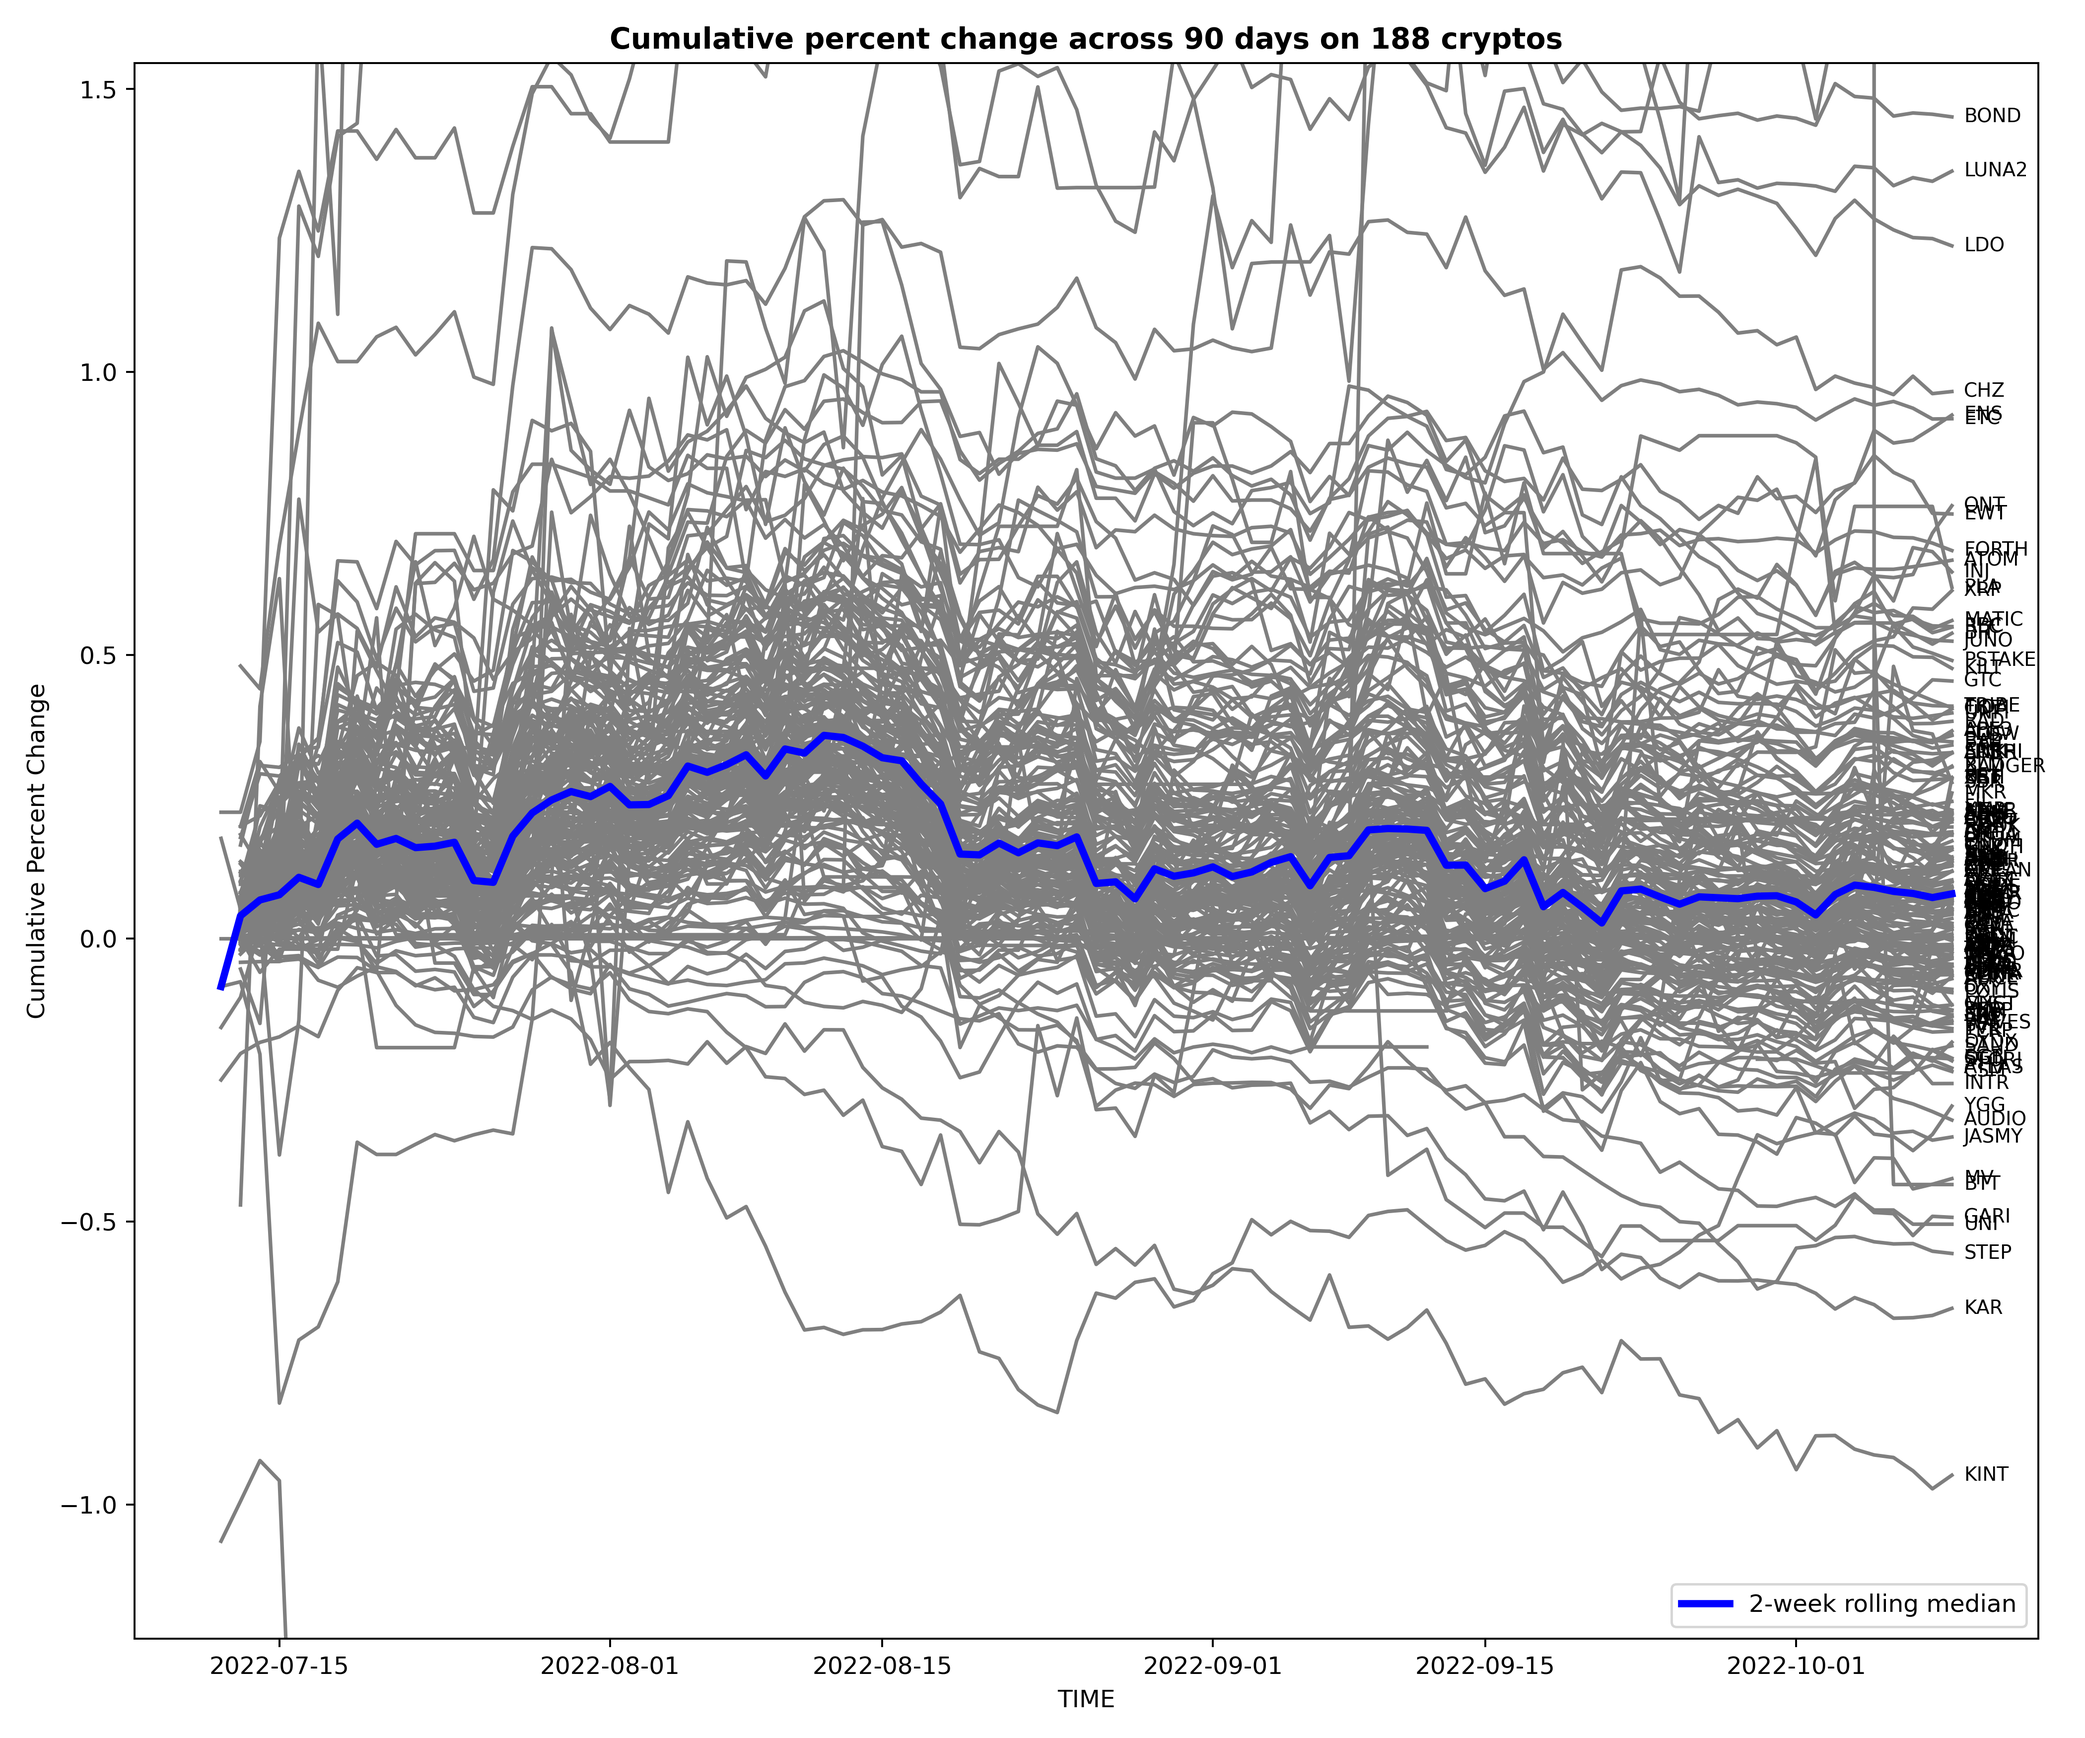
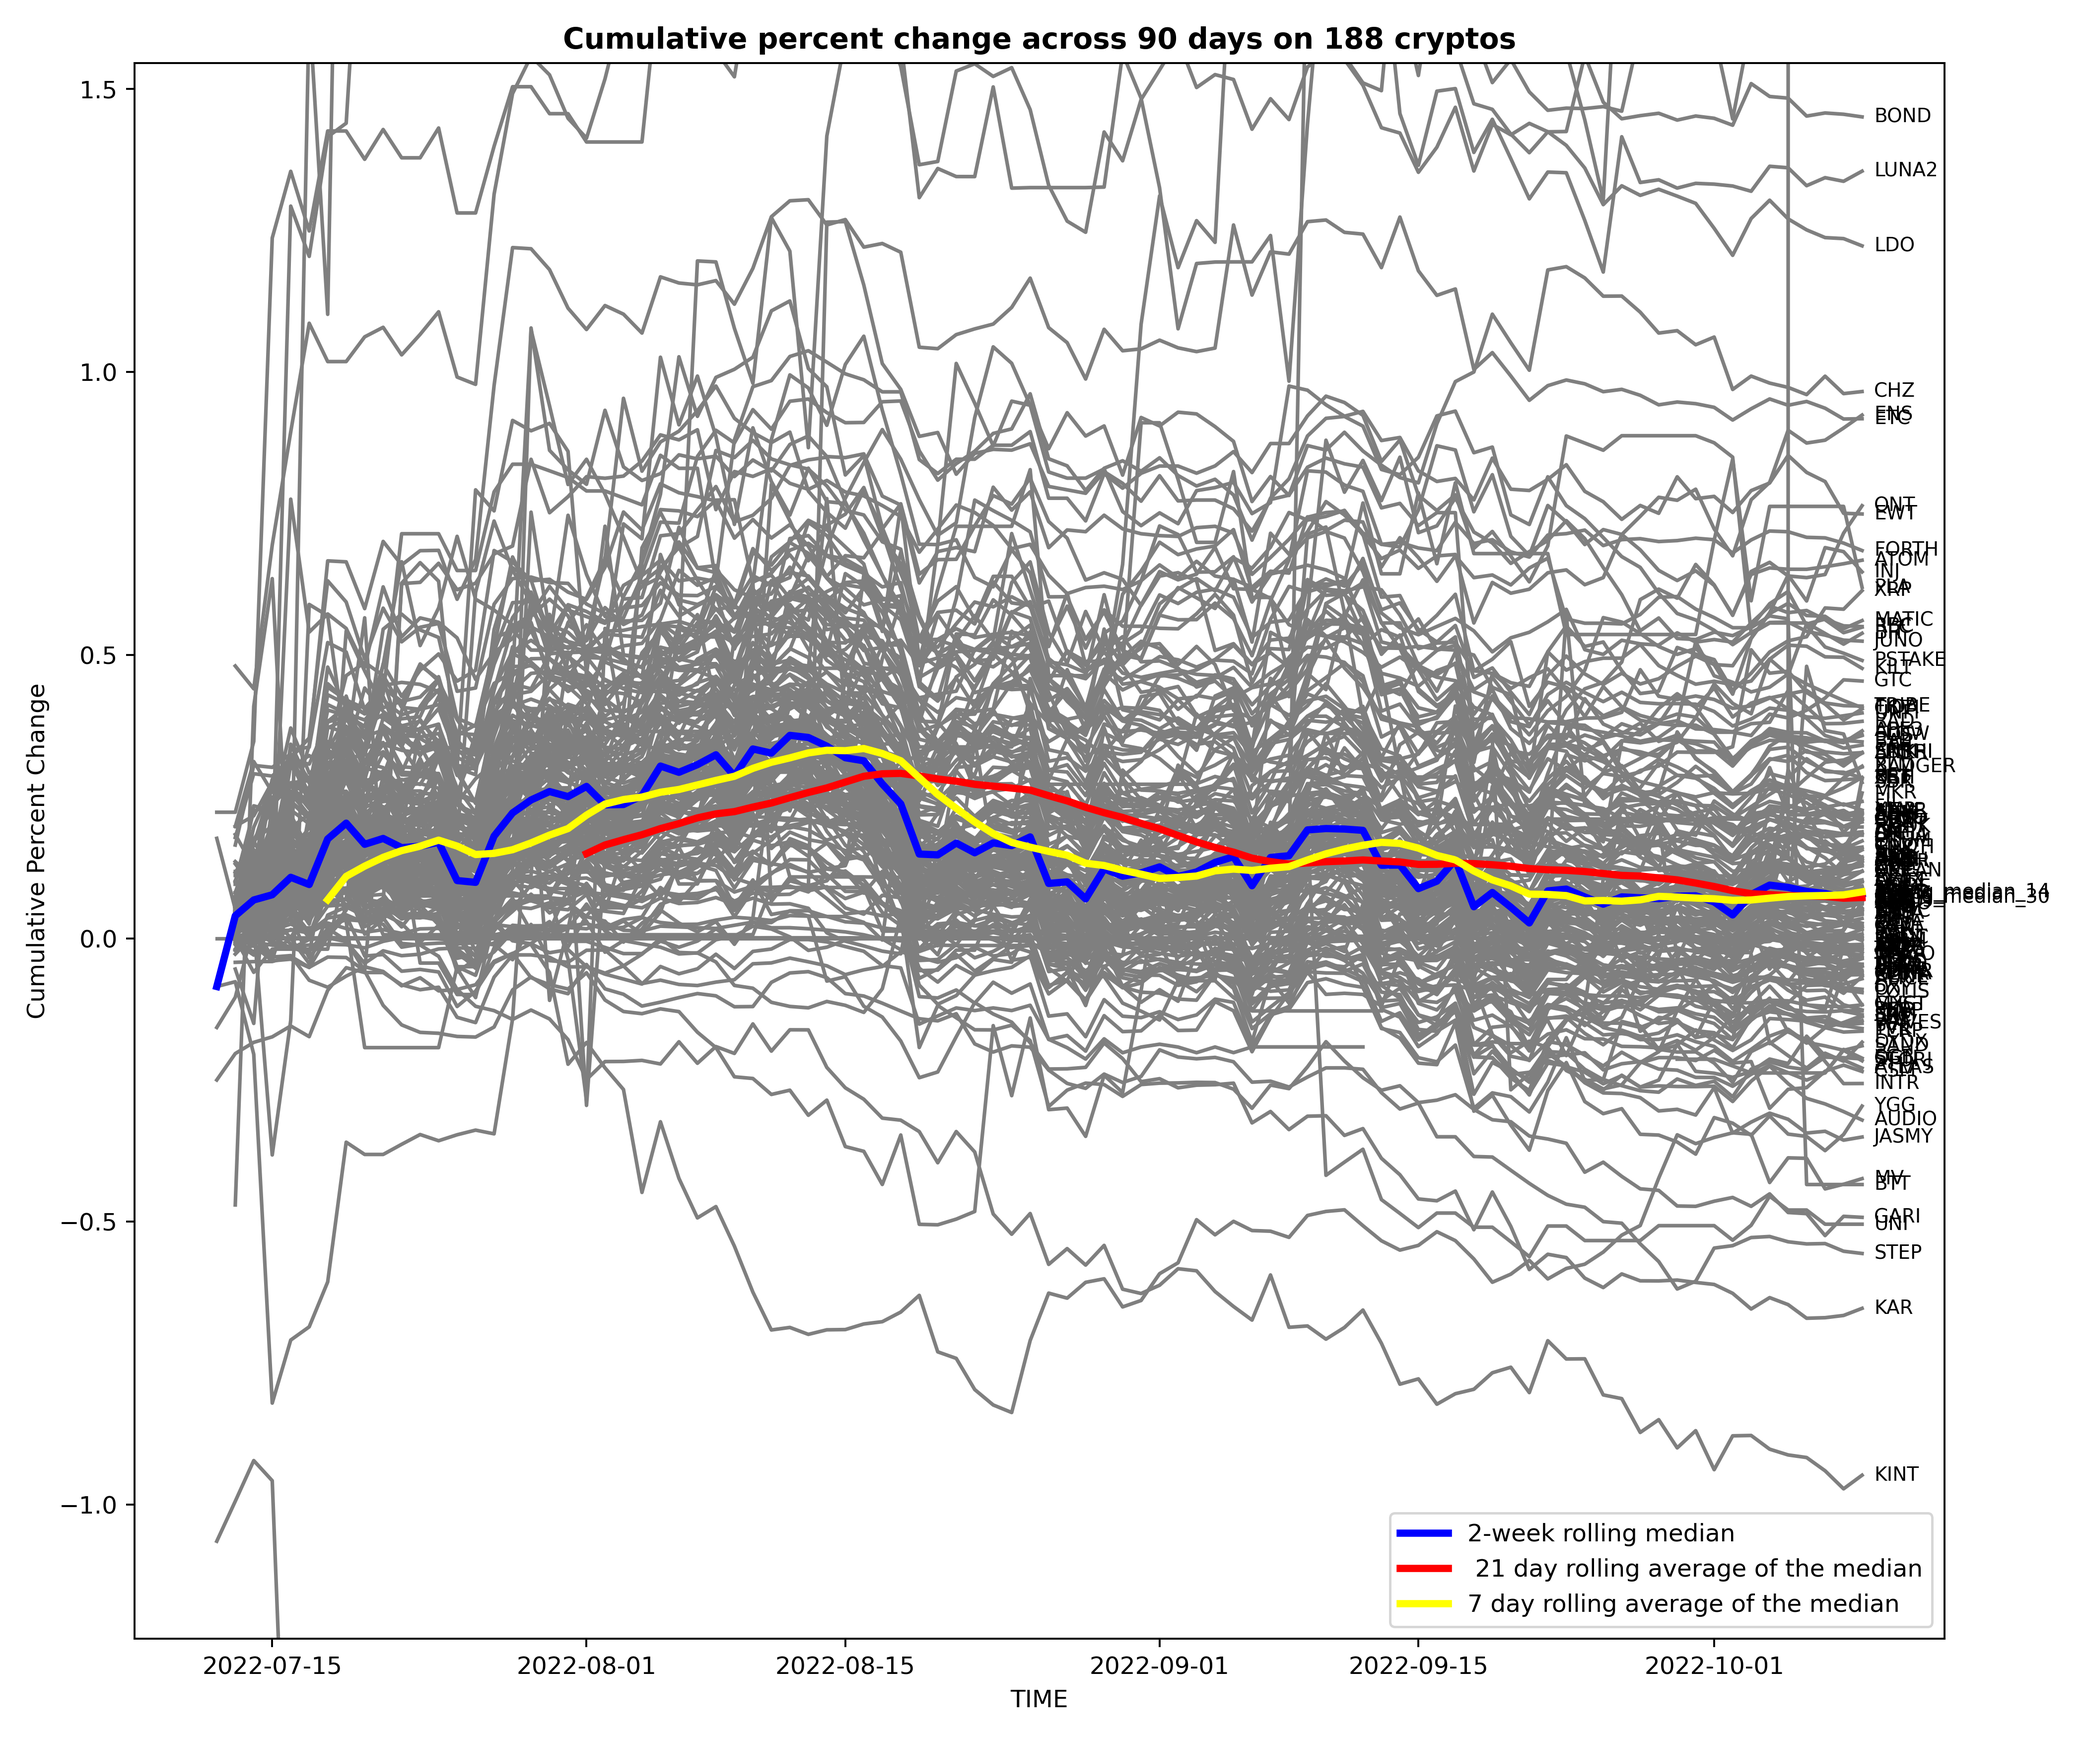
FIX: plot full market

diff --git a/market_value_estimator.py b/market_value_estimator.py
@@ -38,6 +38,9 @@ def plot_all(main_df,crypt_count):
     rolling_mean = zeros(len(main_df))
     for i in range(len(main_df)):
         rolling_mean[i] = nanmedian(main_df.iloc[i])
+    main_df['rolling_median'] = rolling_mean
+    main_df['rolling_median_30'] = main_df['rolling_median'].rolling(21).mean()
+    main_df['rolling_median_14'] = main_df['rolling_median'].rolling(7).mean()
     plt.figure(figsize=(12, 10), dpi=350)
     for crypt in main_df.columns:
         plt.plot(main_df[crypt],'tab:gray')
@@ -46,6 +49,8 @@ def plot_all(main_df,crypt_count):
                     textcoords='offset points', 
                     text=crypt, va='center',fontsize=8)
     plt.plot(main_df.index,rolling_mean,linewidth=3,color='blue',label='2-week rolling median')
+    plt.plot(main_df.index,main_df['rolling_median_30'],linewidth=3,color='red',label=' 21 day rolling average of the median')
+    plt.plot(main_df.index,main_df['rolling_median_14'],linewidth=3,color='yellow',label='7 day rolling average of the median')
     lower = nanmean(rolling_mean) - (nanmean(rolling_mean) * 9)
     upper = abs(nanmean(rolling_mean) + (nanmean(rolling_mean) * 9))
     plt.ylim([lower,upper])
